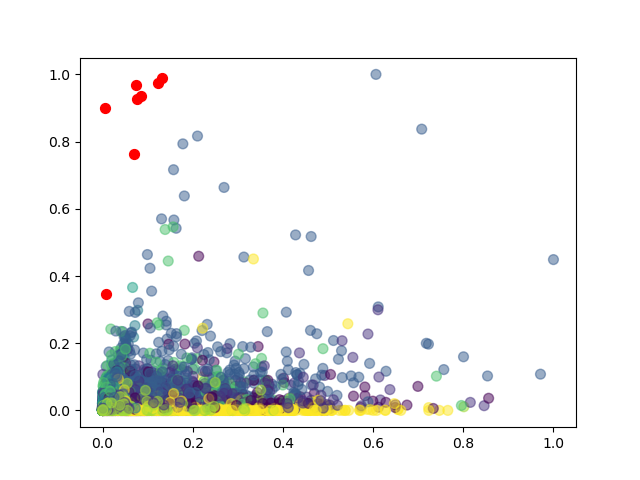
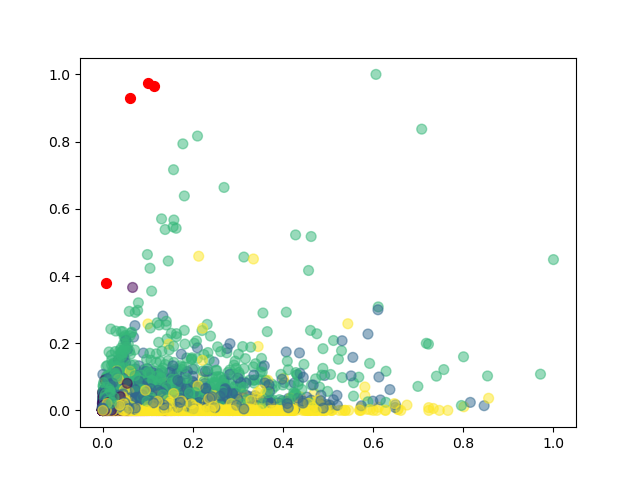
Added clusters desc

diff --git a/credit_cards_project/analizer.py b/credit_cards_project/analizer.py
@@ -5,7 +5,7 @@ import matplotlib.pyplot as plt
 from sklearn.cluster import KMeans
 from sklearn import preprocessing
 
-cluster_number = 8
+cluster_number = 4
 
 def load_data(dataPath='./credit_card_data.csv'):
 	credit_data = pd.read_csv(dataPath)
@@ -24,11 +24,11 @@ def normilize_data(credit_data):
 
 '''
 method for finding optimal cluser number
-in this case it's 8
+in this case it's 4
 '''
 def elbow(credit_data):
 	sum_of_distances = []
-	K = range(1,20)
+	K = range(1,10)
 	for k in K:
 		km = KMeans(n_clusters=k)
 		km = km.fit(credit_data)
@@ -56,7 +56,7 @@ def plot_clusters(credit_data, cluster_num=8):
 	plt.scatter(centroids[:, 0], centroids[:, 1], c='red', s=50)
 	plt.show()
 
-def predict_clusters(train,test, cluster_num=8):
+def predict_clusters(train,test, cluster_num):
 	X = np.array(train)
 	X_test = np.array(test)
 	kmeans = KMeans(n_clusters=cluster_num, random_state=0).fit(X)
@@ -65,12 +65,14 @@ def predict_clusters(train,test, cluster_num=8):
 	
 def summery(data):
 	train_summary = data.groupby(by='CLUSTER_PREDICTION').mean()
+	'''
 	train_summary = train_summary[['BALANCE', 'PURCHASES', 
                                'PURCHASES_FREQUENCY','CREDIT_LIMIT', 
                                'ONEOFF_PURCHASES_FREQUENCY', 
                               'MINIMUM_PAYMENTS','PRC_FULL_PAYMENT', 
                                'PAYMENTS']]
-	print(train_summary)
+    '''
+	train_summary.to_csv('result.csv')
 
 def find_correlation(credit_data):
 	df = DataFrame(credit_data,columns=['BALANCE','PURCHASES','BALANCEFREQUENCY','CASHADVANCE','CREDIT_LIMIT','CASH_ADVANCE_FREQUENCY','MINIMUM_PAYMENTS'])
@@ -81,7 +83,7 @@ if __name__ == "__main__":
 	credit_data = load_data()
 	credit_data = clean_data(credit_data)
 	credit_data = normilize_data(credit_data)
-	#elbow(credit_data)
+	elbow(credit_data)
 	train,test = split_data(credit_data)
 	plot_clusters(credit_data, cluster_number)
 	prediction = predict_clusters(train,test,cluster_number)
